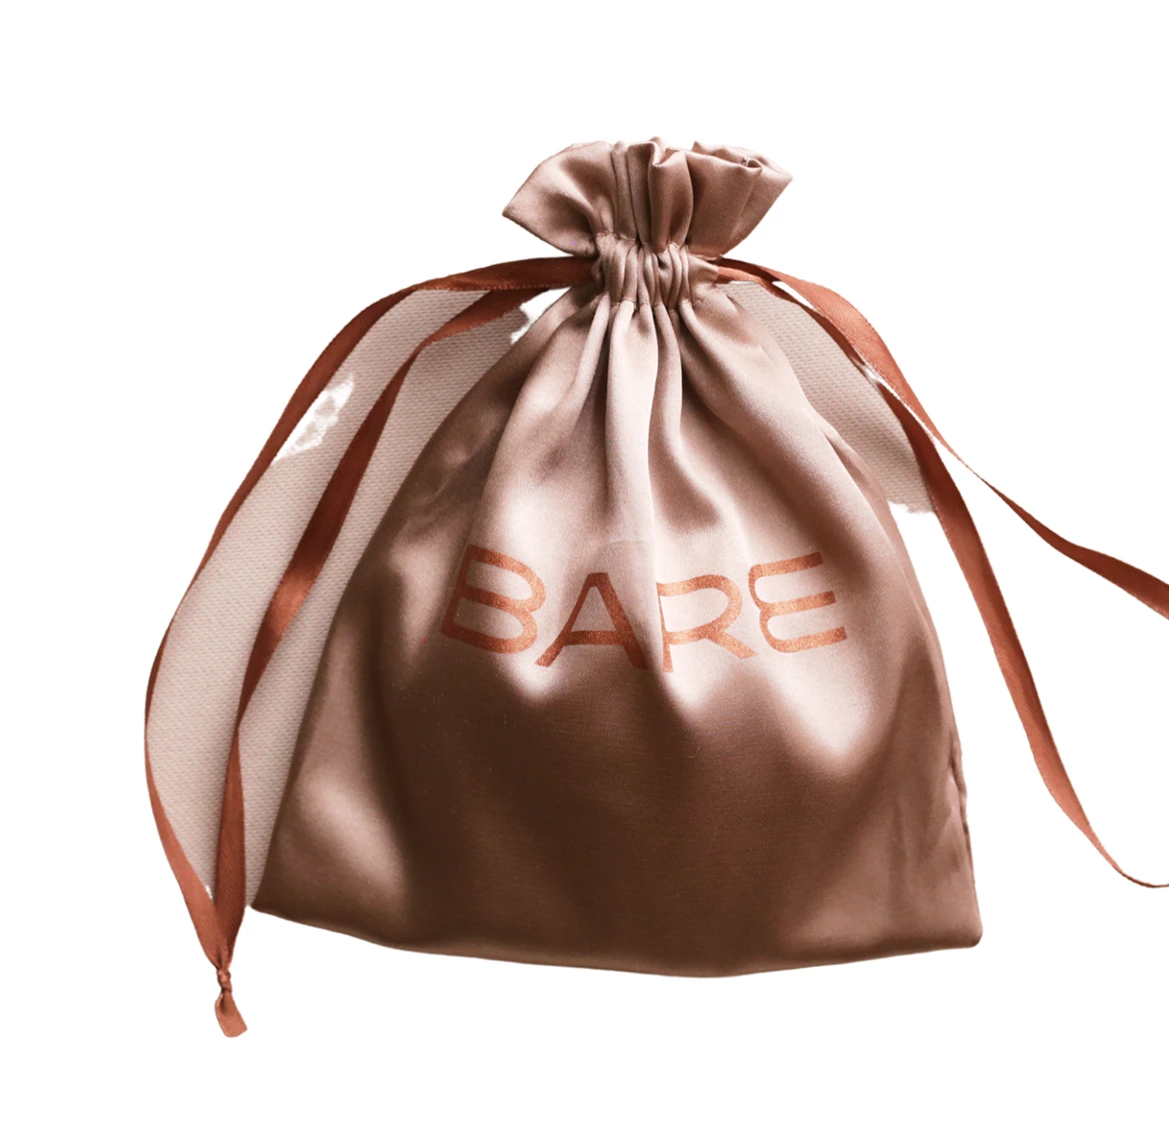
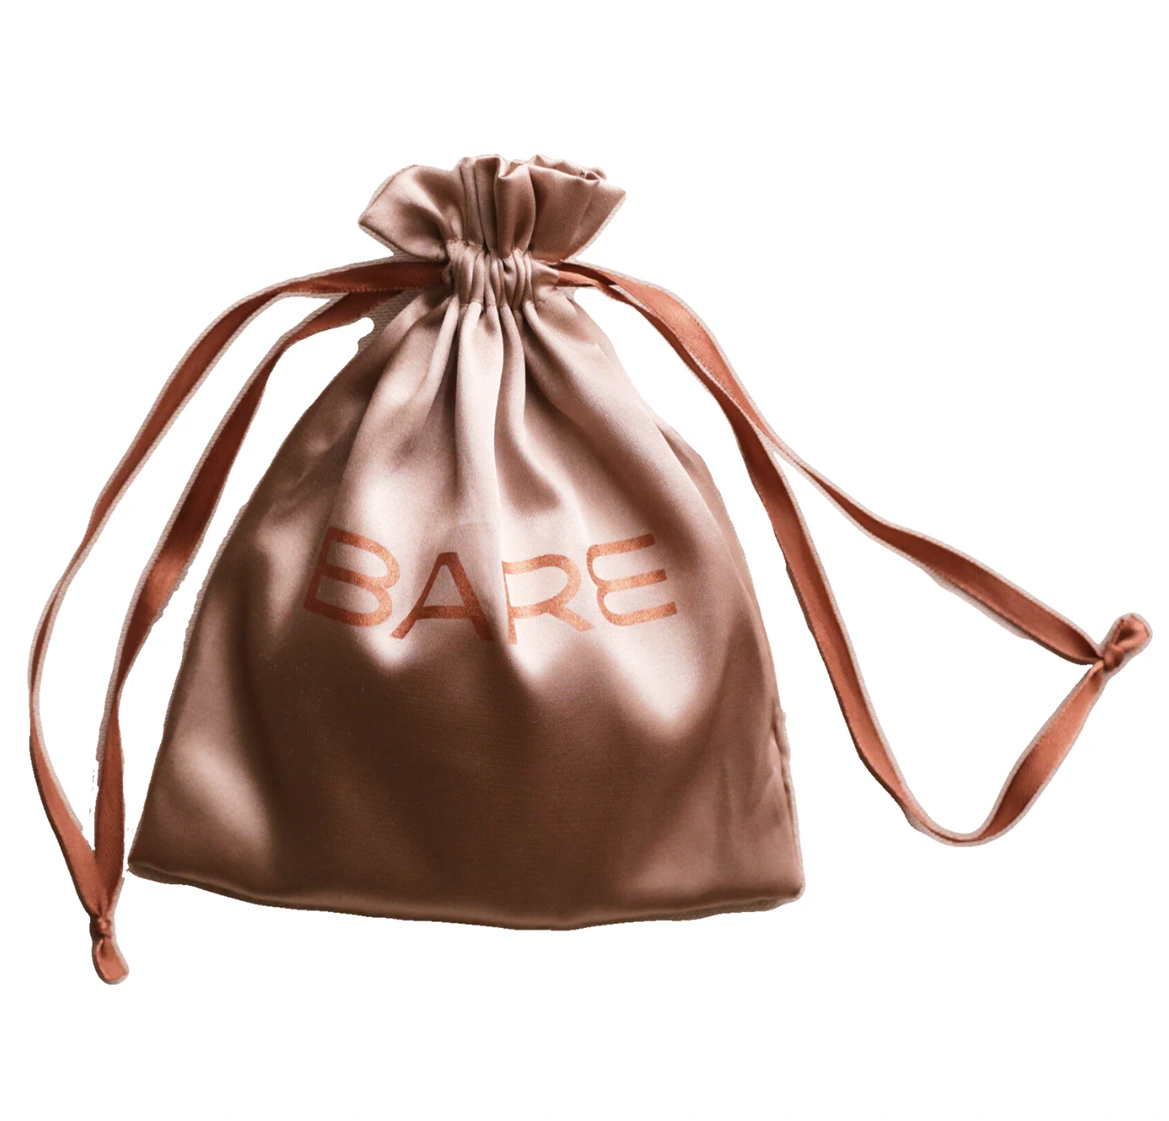
Add taupe zip pouch to products and update drawstring bag photo.

diff --git a/app/Console/Commands/InitializeApp.php b/app/Console/Commands/InitializeApp.php
@@ -561,12 +561,21 @@ class InitializeApp extends Command
                 ]),
                 'status' => 1,
             ], [
-                'name' => 'Zip Pouch',
+                'name' => 'Cocoa Zip Pouch',
                 'description' => 'Care for your nipple covers with our Dust Bags. These essential accessories ensure your covers stay clean and free from debris. Crafted from soft, breathable fabric, the drawstring closure provides a hygienic storage solution, preserving your nipple covers\' quality and longevity.',
                 'category' => 'Travel Pouch',
                 'price' => 299,
                 'variations' => json_encode([]),
-                'photo' => config('app.prod_url') . '/img/shop/products/zip-pouch-1.webp',
+                'photo' => config('app.prod_url') . '/img/shop/products/cocoa-zip-pouch.webp',
+                'sub_photos' => json_encode([]),
+                'status' => 1,
+            ], [
+                'name' => 'Taupe Zip Pouch',
+                'description' => 'Care for your nipple covers with our Dust Bags. These essential accessories ensure your covers stay clean and free from debris. Crafted from soft, breathable fabric, the drawstring closure provides a hygienic storage solution, preserving your nipple covers\' quality and longevity.',
+                'category' => 'Travel Pouch',
+                'price' => 299,
+                'variations' => json_encode([]),
+                'photo' => config('app.prod_url') . '/img/shop/products/taupe-zip-pouch.webp',
                 'sub_photos' => json_encode([]),
                 'status' => 1,
             ], [
